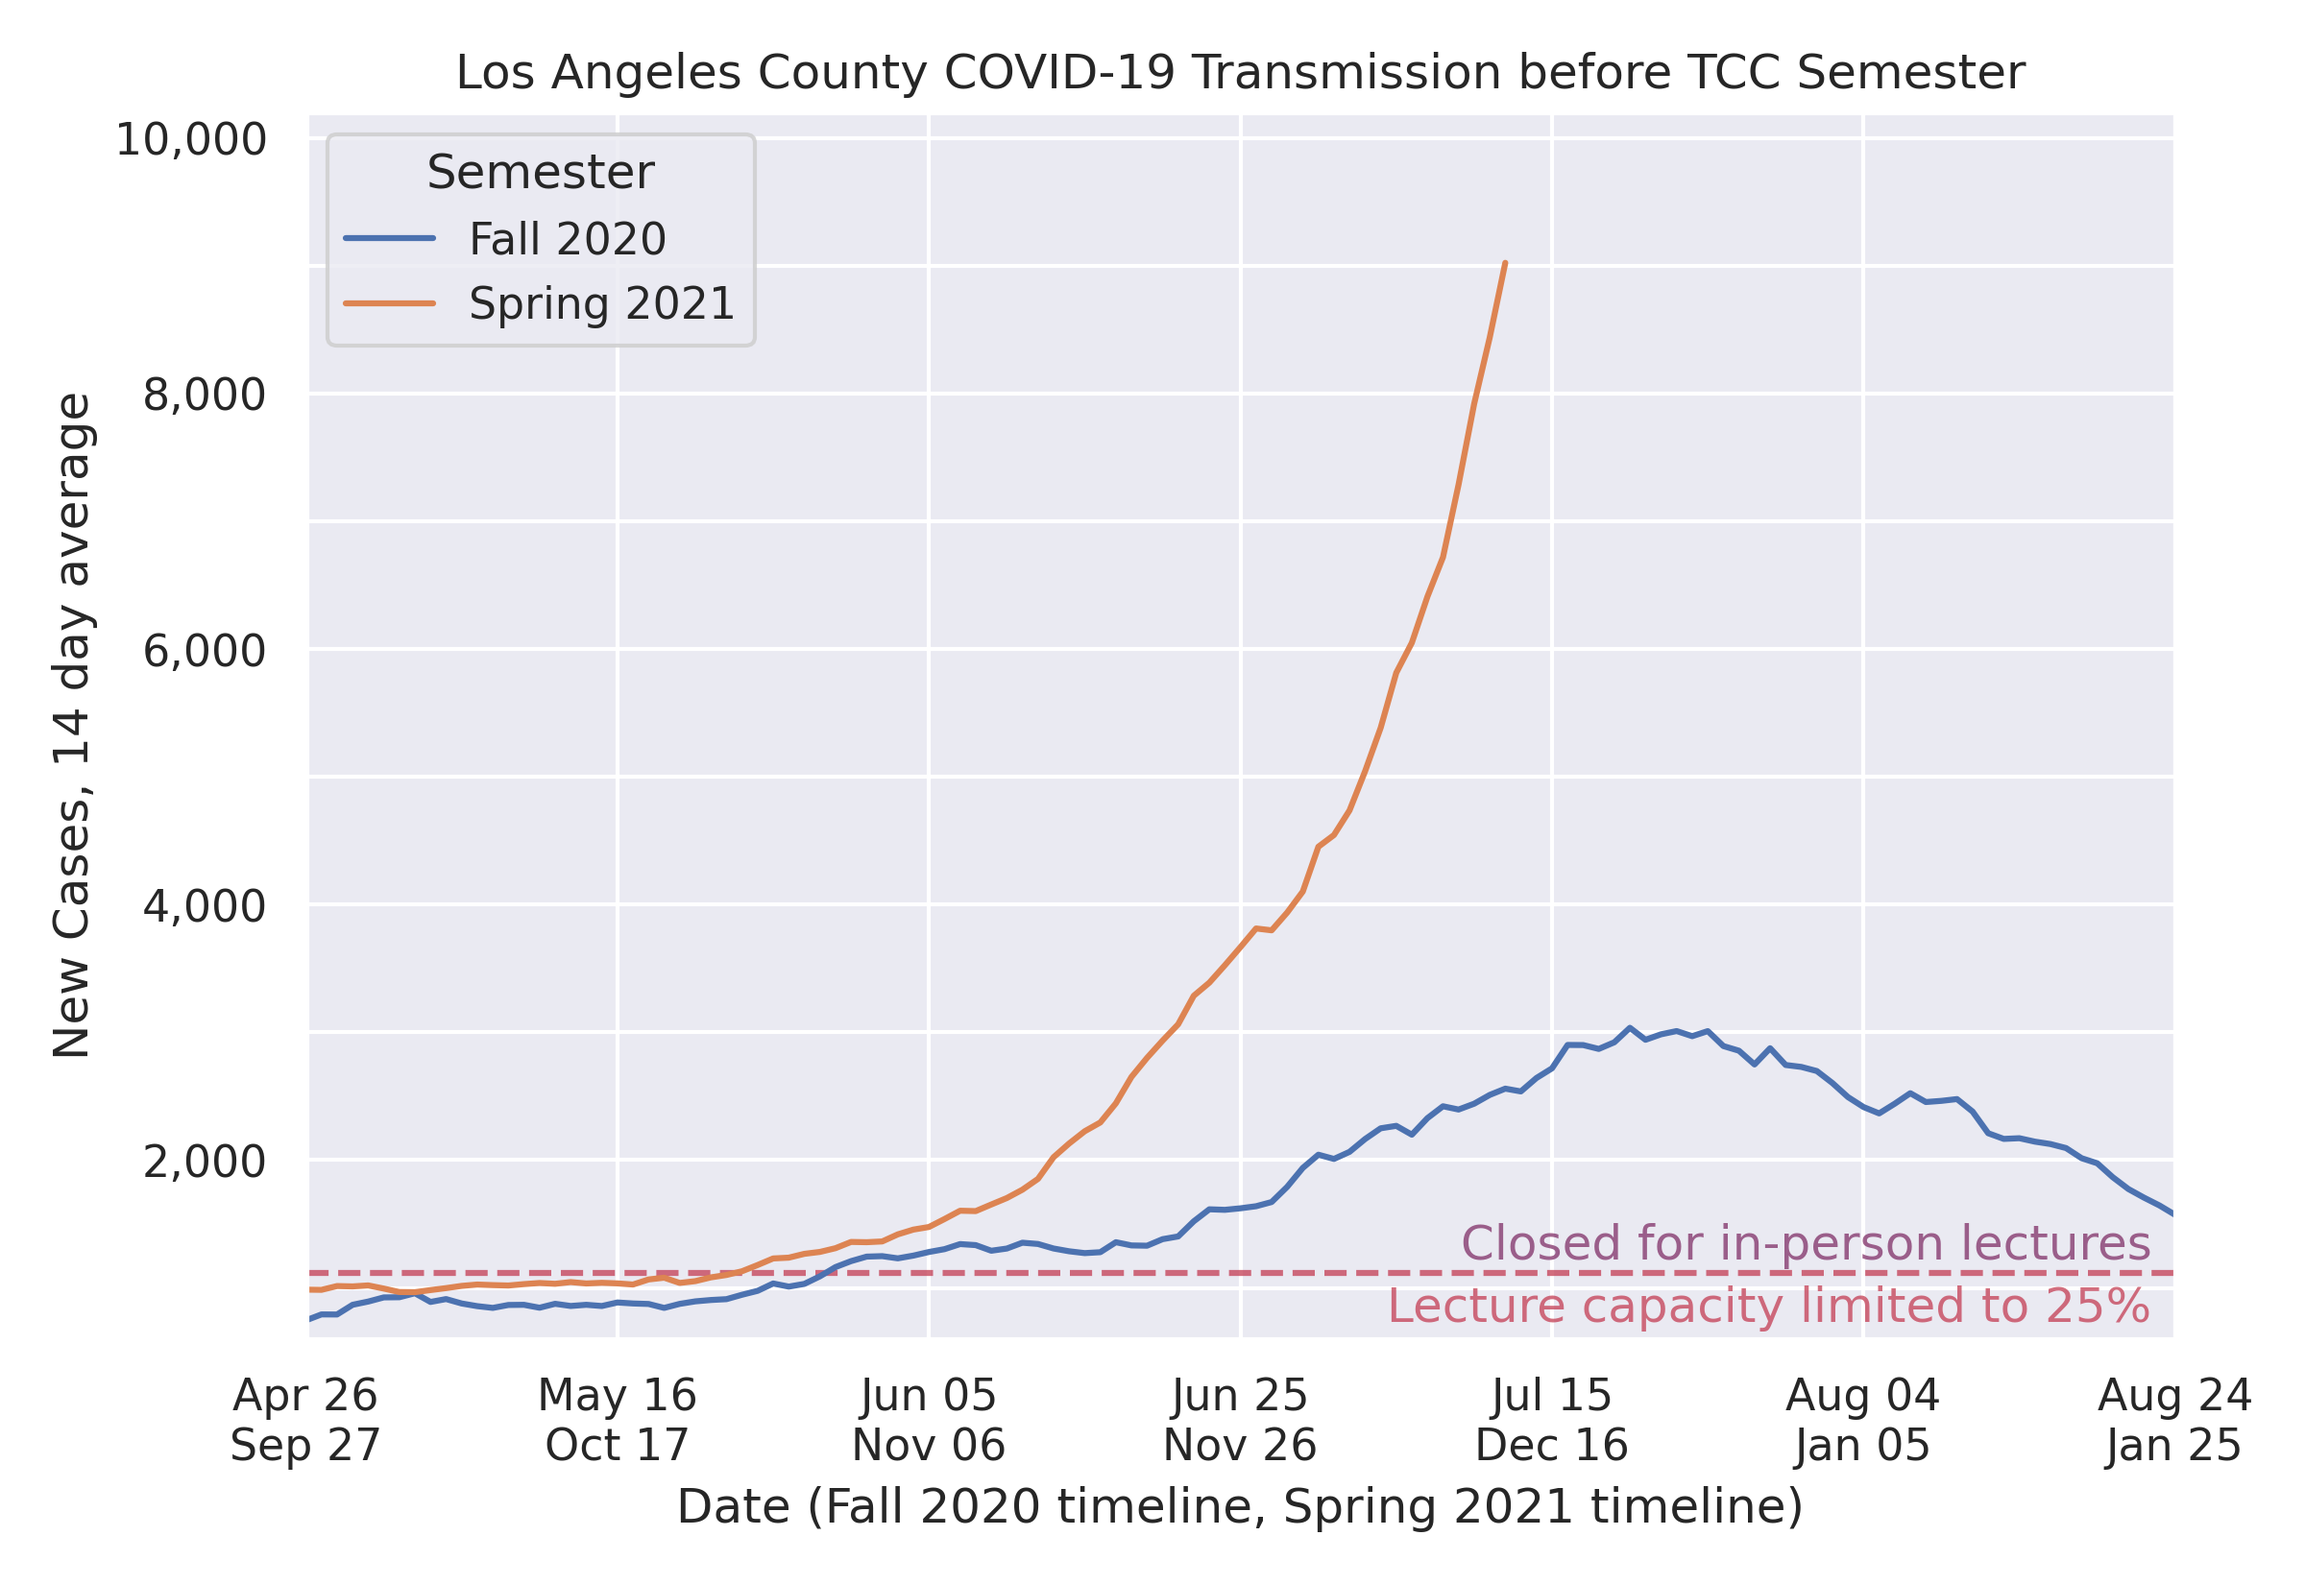
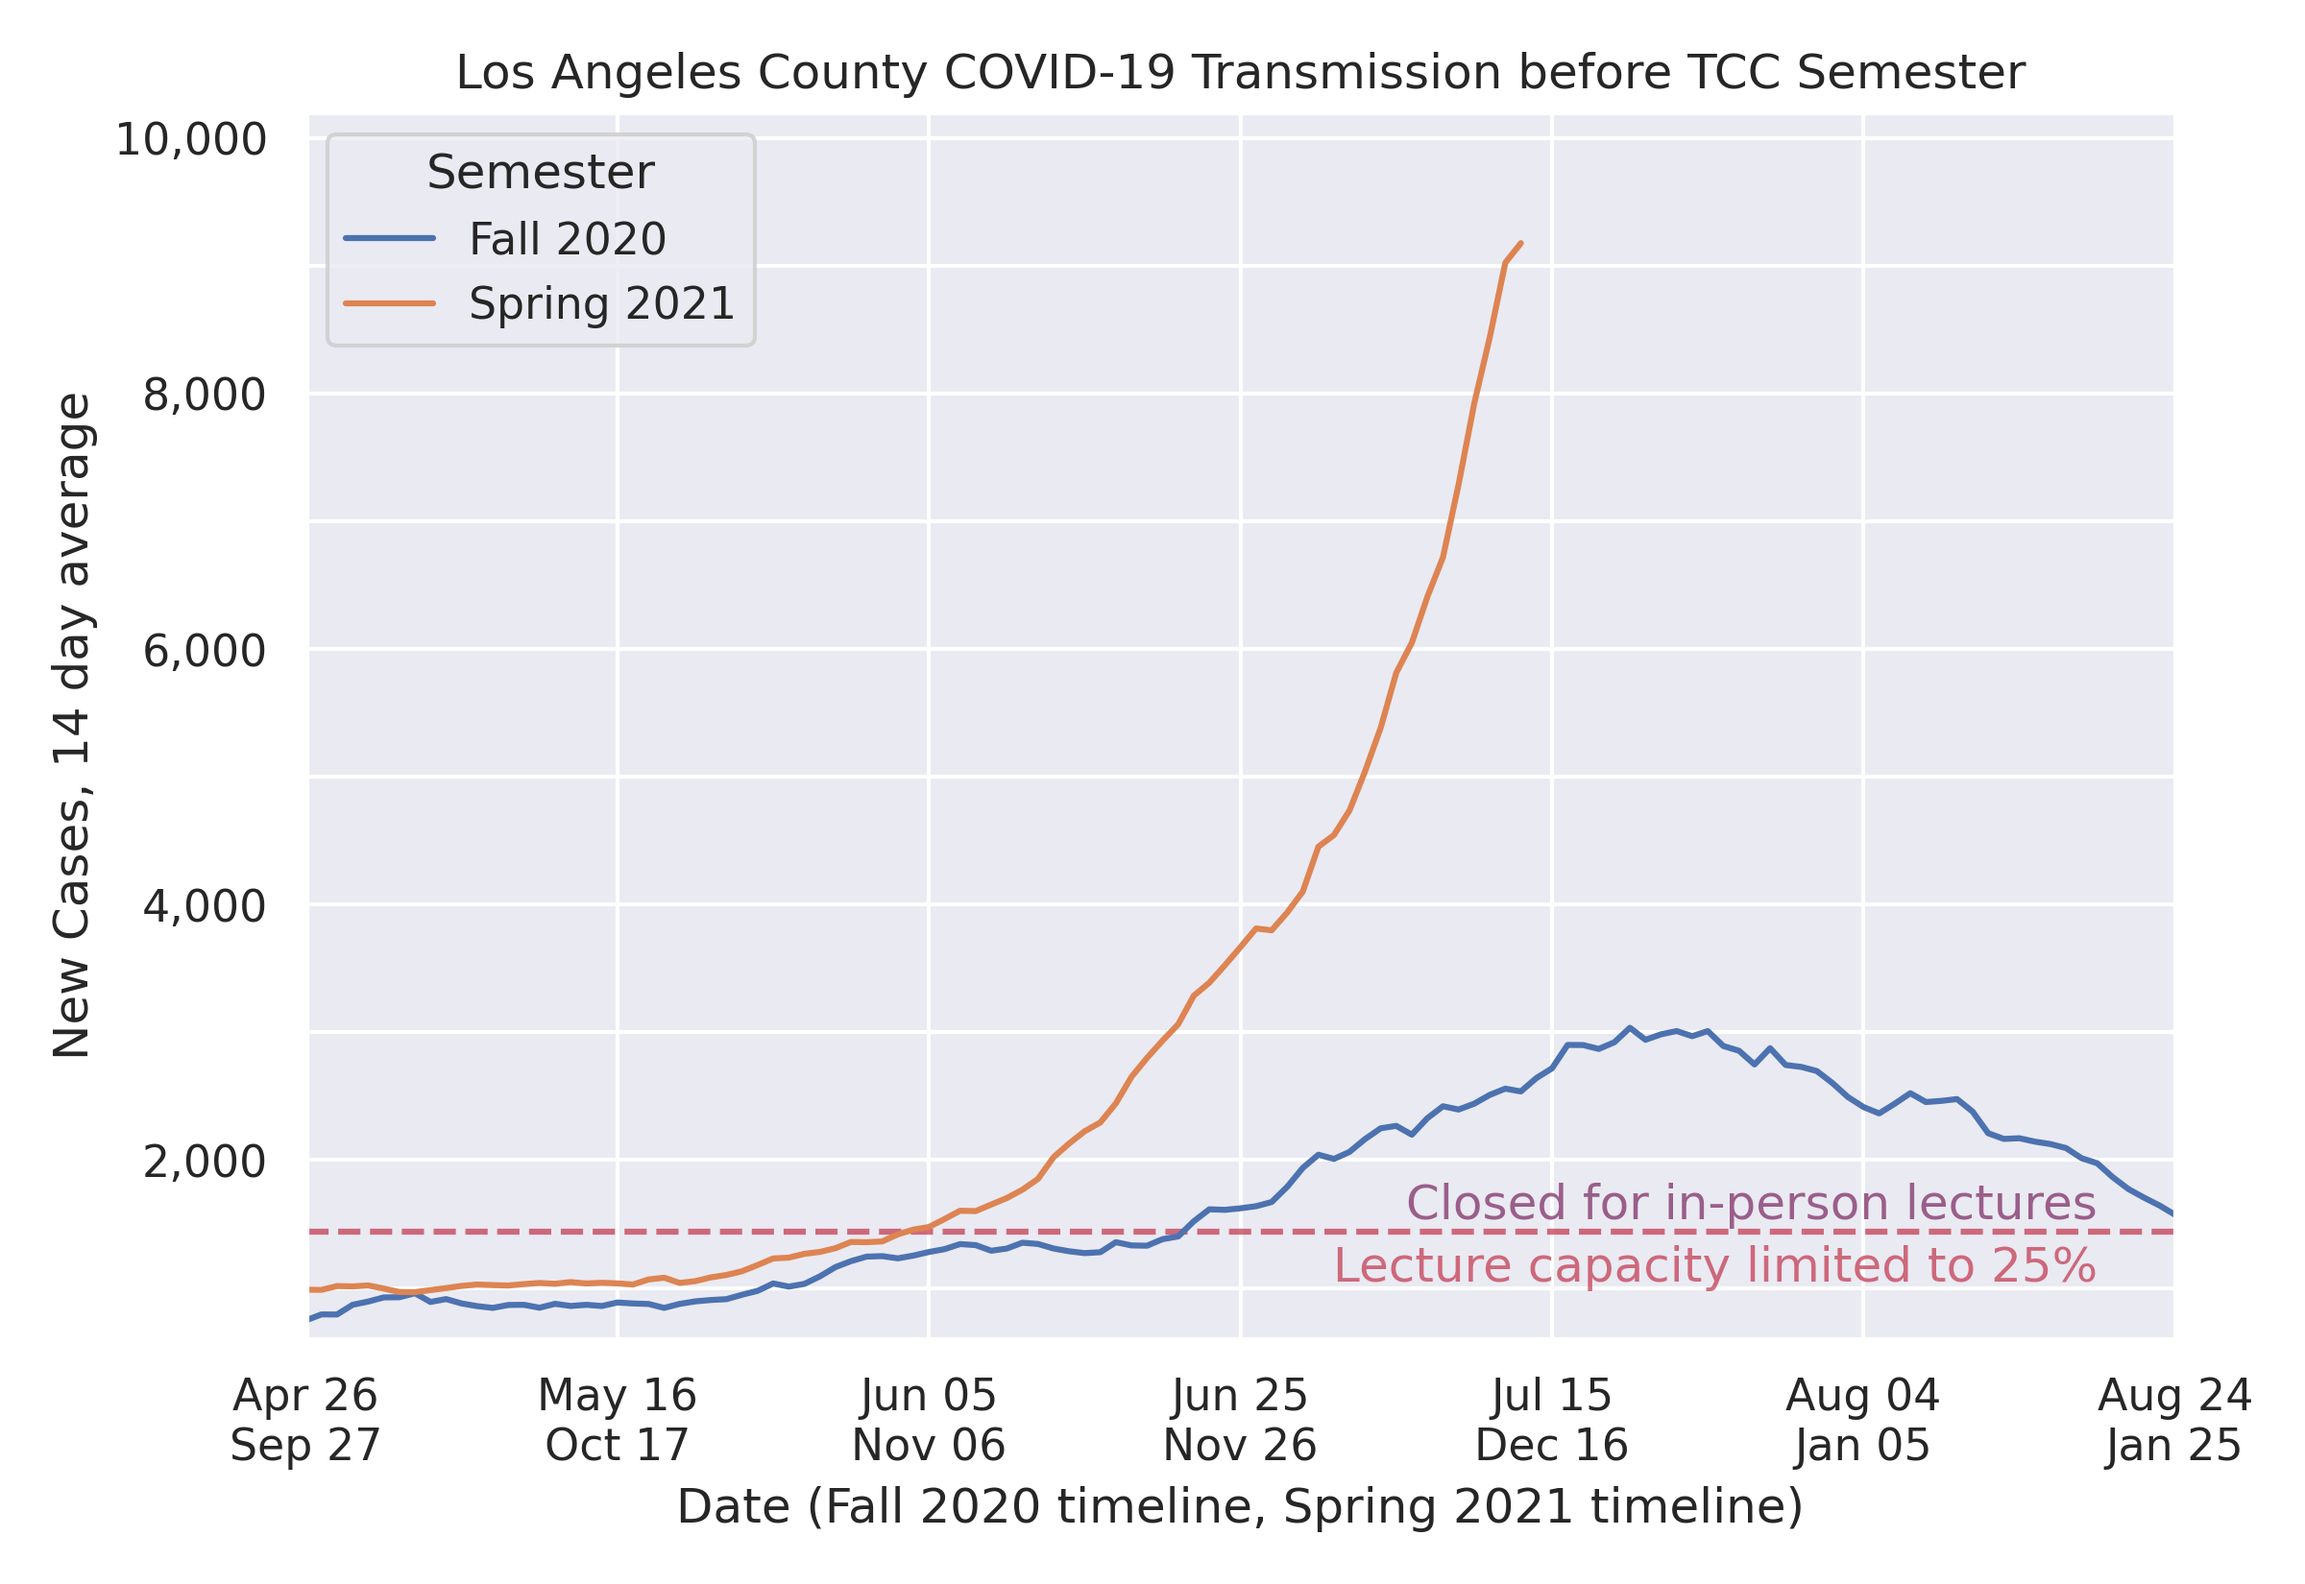
Update 2020-12-15

Changed region(s): [[0.125, 0.7418, 0.9375, 0.8345]]

diff --git a/semester_start_countdown.py b/semester_start_countdown.py
@@ -155,7 +155,7 @@ df_la = df_la.loc[:, (DATE, SEMESTER, DAYS_UNTIL_SEMESTER,
 
 fig, ax = plt.subplots(figsize=(8, 5.5), dpi=300)
 
-rate_multiplier = (10_257_557 / 1e5) / 0.642
+rate_multiplier = (10_257_557 / 1e5) / 0.500
 substantial_rate, moderate_rate = [rate_multiplier * x for x in (7, 4)]
 widespread_color = '#802f67'
 substantial_color = '#c43d53'
@@ -164,7 +164,7 @@ widespread_message = 'Closed for in-person lectures'
 substantial_message, moderate_message = [
     'Lecture capacity limited to {}%'.format(x) for x in (25, 50)]
 vertical_pad = 100
-horizontal_pad = 1.5
+horizontal_pad = 5
 alpha = 0.75
 ax.text(horizontal_pad, substantial_rate+vertical_pad, widespread_message,
         ha='right', color=widespread_color, alpha=alpha)
